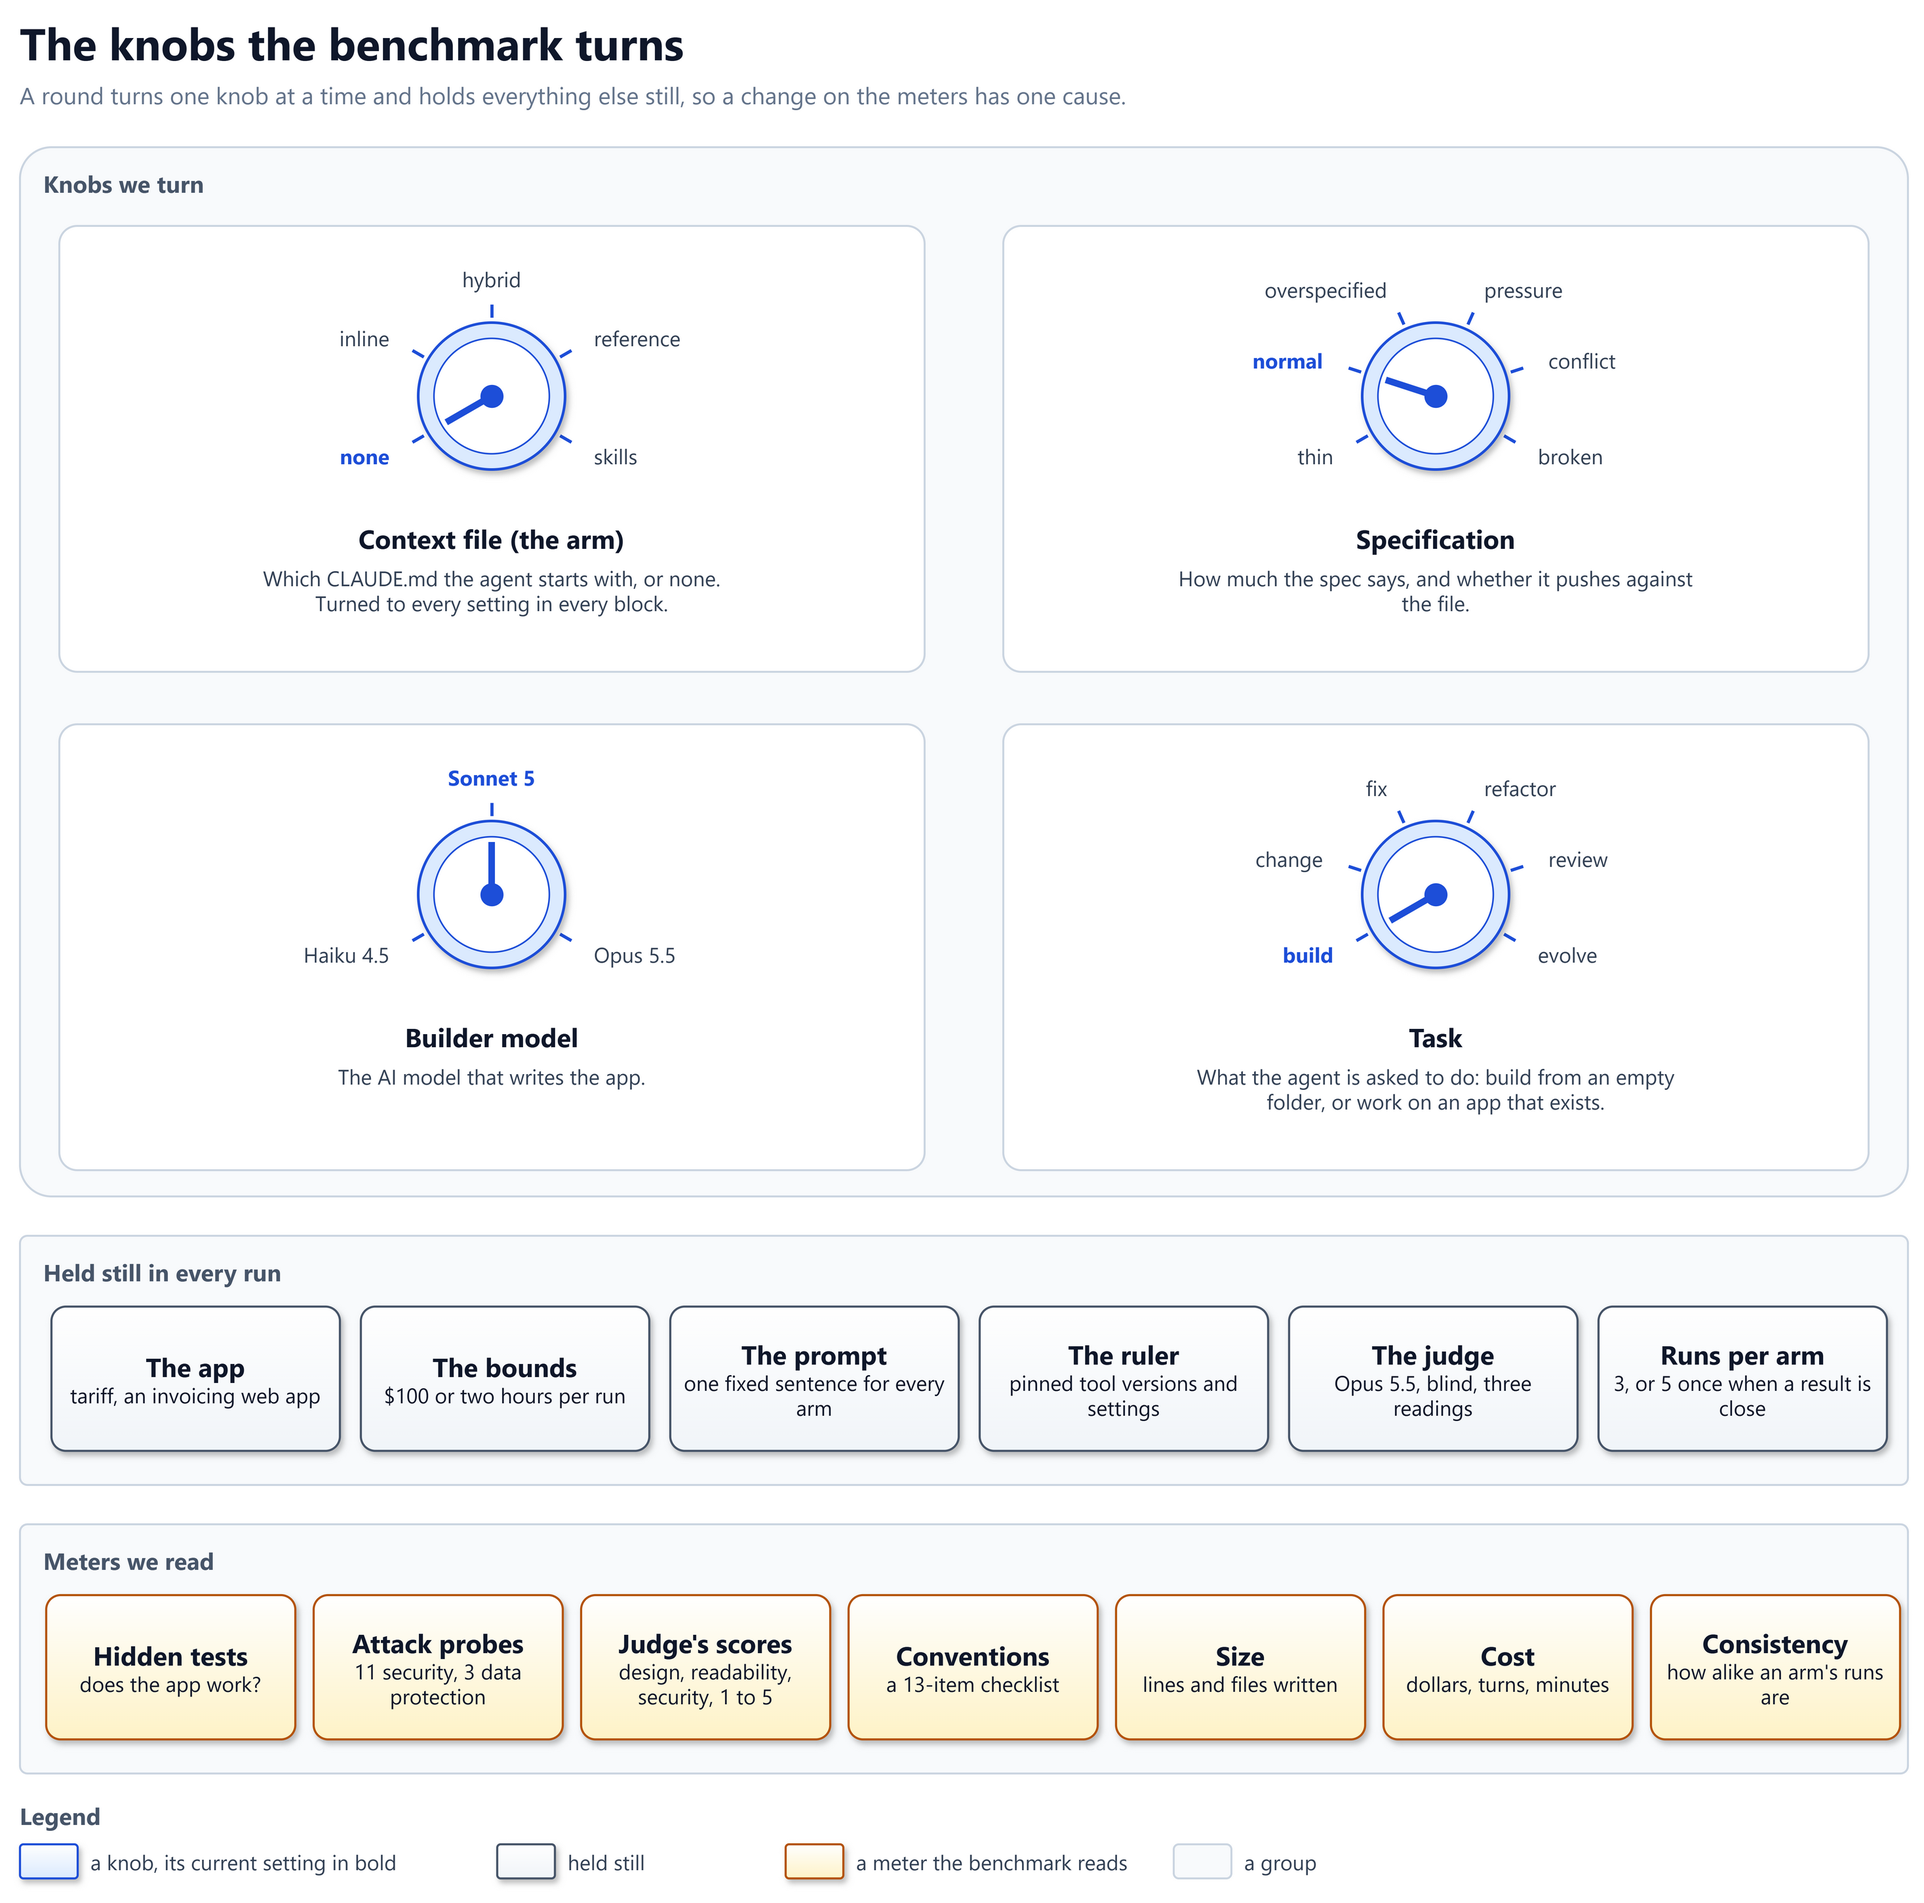
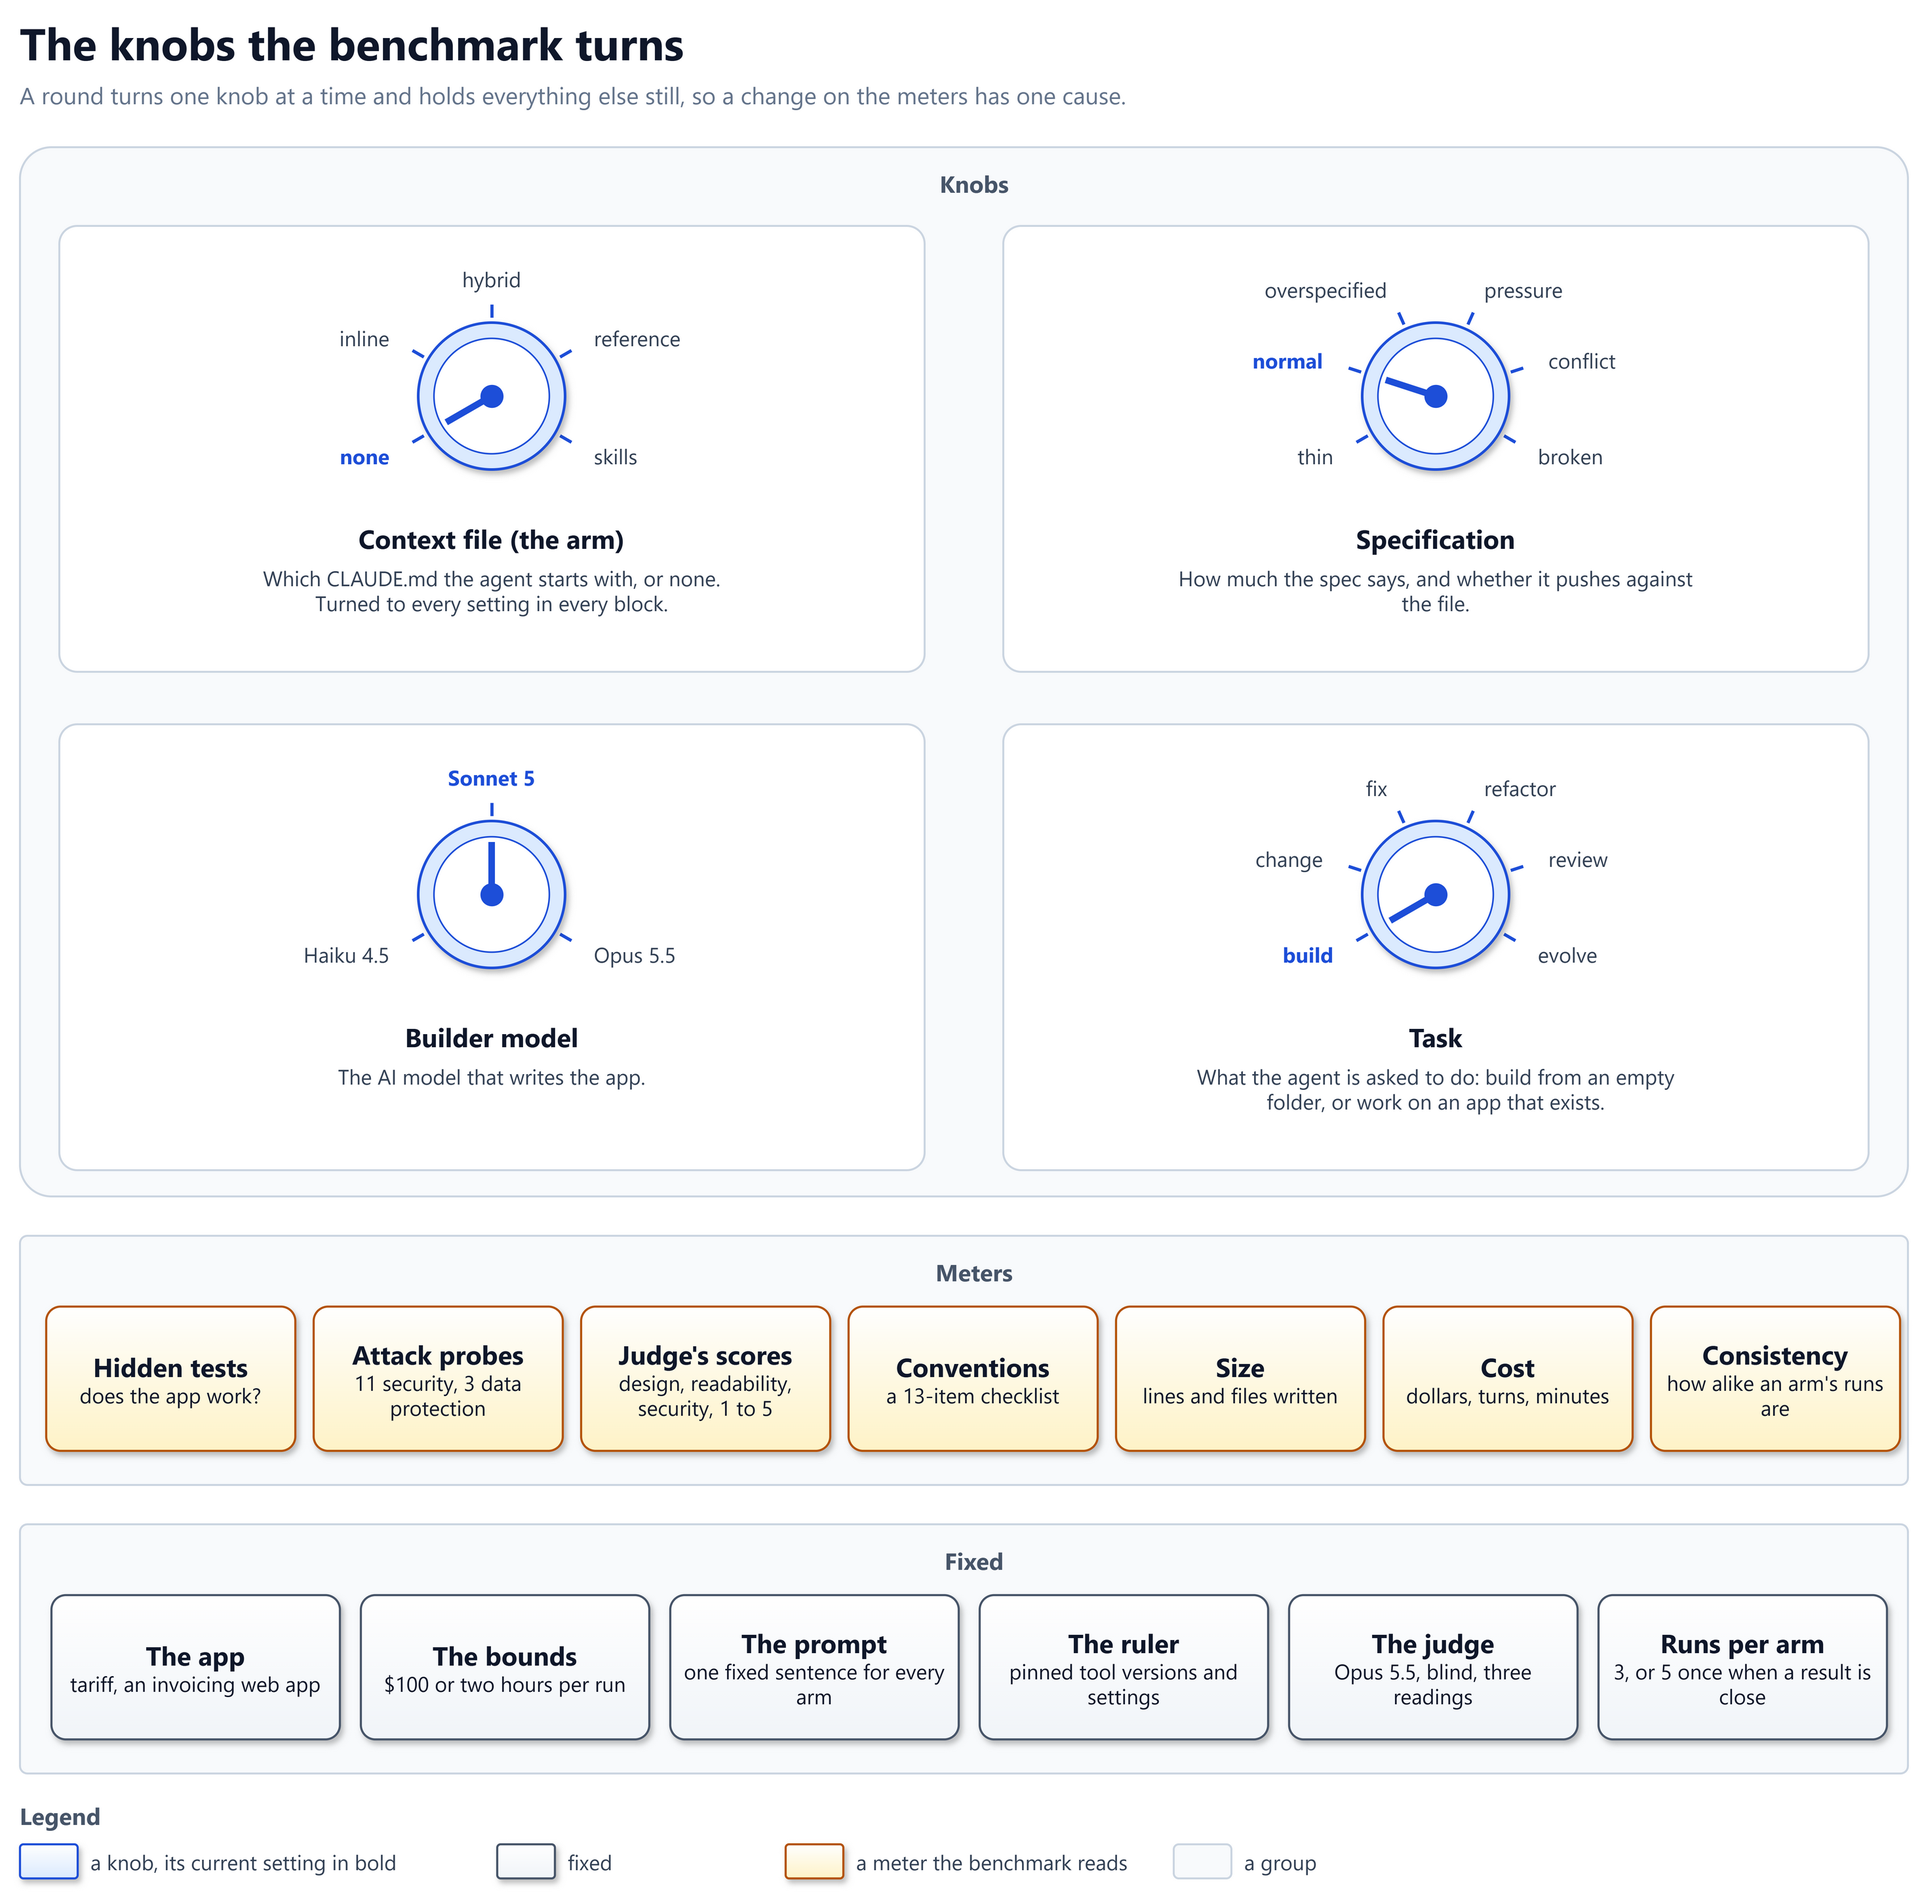
docs(primer): title the knob groups Knobs, Meters and Fixed, centred (#30)
The three groups get short centred titles, and the meters now come
before what is fixed.

Claude-Session: https://claude.ai/code/session_01HVh8GVGd72WUJ3BvM7TXQn

diff --git a/docs/primer.md b/docs/primer.md
@@ -46,7 +46,7 @@ one sitting and strict enough that a wrong cent shows.
 A round turns one knob at a time and holds everything else still. Then any
 change on the meters has one cause.
 
-![Four knobs the benchmark turns, each with its settings: the context file (none, inline, hybrid, reference, skills, with none selected), the specification (thin, normal, overspecified, pressure, conflict, broken, with normal selected), the builder model (Haiku 4.5, Sonnet 5, Opus 5.5, with Sonnet 5 selected) and the task (build, change, fix, refactor, review, evolve, with build selected). Below them, what is held still in every run: the app, the bounds of $100 or two hours, the prompt, the ruler, the judge and the runs per arm, 3 or 5 once when a result is close. Below that, the meters: hidden tests, attack probes, the judge's scores, conventions, size, cost, and consistency, how alike an arm's runs are](diagrams/knobs.png)
+![Four knobs the benchmark turns, each with its settings: the context file (none, inline, hybrid, reference, skills, with none selected), the specification (thin, normal, overspecified, pressure, conflict, broken, with normal selected), the builder model (Haiku 4.5, Sonnet 5, Opus 5.5, with Sonnet 5 selected) and the task (build, change, fix, refactor, review, evolve, with build selected). Below them, the meters: hidden tests, attack probes, the judge's scores, conventions, size, cost, and consistency, how alike an arm's runs are. Below that, what is fixed in every run: the app, the bounds of $100 or two hours, the prompt, the ruler, the judge and the runs per arm, 3 or 5 once when a result is close.](diagrams/knobs.png)
 
 | Knob | Settings | What turning it asks |
 | ---- | -------- | -------------------- |
